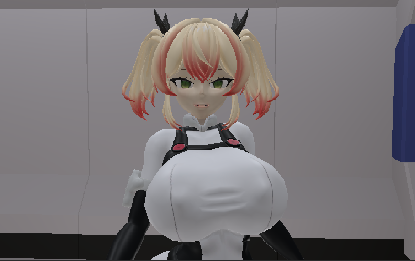
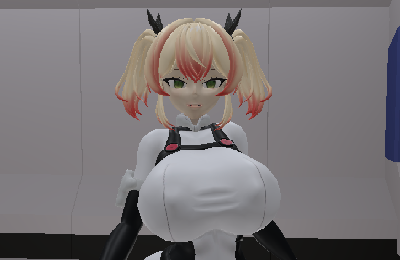
update site

diff --git a/src/styles/global.css b/src/styles/global.css
@@ -40,3 +40,23 @@ img {
   max-width: 100%;
   height: auto;
 }
+
+.site-header {
+  display: flex;
+  justify-content: space-between;
+  align-items: center;
+}
+
+.site-header h1 {
+  margin: 0;
+}
+
+.site-header nav a {
+  color: #666;
+  text-decoration: none;
+  font-size: 0.9rem;
+}
+
+.site-header nav a:hover {
+  text-decoration: underline;
+}

diff --git a/src/content/blog/2026-07-02-01bodymodelling.md b/src/content/blog/2026-07-02-01bodymodelling.md
@@ -1,0 +1,106 @@
+---
+title: "身体のモデリング"
+date: 2026-07-02
+tags:
+  - Blender
+  - 作業記録
+---
+
+頭部のモデリングの時と同じ講座を参考にした。見ながら一緒に作業するだけでほぼ完成する。
+
+
+- YouTube: 夏森轄（なつもり かつ）さん【Blender】人体モデリング講座　～キャラクターモデリング上達への道～
+https://www.youtube.com/watch?v=MprHxcYyo6g
+
+完成したのがこんな感じ。  
+いわゆるTポーズではなくAスタンスと呼ばれる腕を少し下げたポーズで作っているが、これは腕を大きく動かしたときに各部位の変形がAスタンスの方が少なそうだと思ったため。  
+今回はアダルトゲームの作成を目指しているため、縛られたポーズなど手足を無理に曲げた形になる可能性があると考えて崩れてほしくない肩側の形を広く作りたかった。  
+実際にTポーズとAスタンスの違いにこういう効果があるかは不明。  
+
+![はじめての身体モデリング](/images/2026-07-02-01bodymodelling_001.png)  
+![身体前下絵](/images/2026-07-02-01bodymodelling_002.png)
+![身体横下絵](/images/2026-07-02-01bodymodelling_003.png)
+
+完全に棒立ちの下絵は用意しなかったが、大体の頭身や身体のバランスがわかるように正面と横の画像は生成して重ねて作業した。  
+顔のモデリングのところにも書いたが、ここで真正面のY軸方向から見たときに少し胸が窮屈になるように作るべきだった。  
+この体型だと胸はかなり前に突き出しているパーツなのでイラストでは遠近法込みでこのシルエットに見えているはずだが、Blenderで視点をY軸に合わせて真正面表示にした時は遠近法が適用されなくなる。（斜め視点のときはBlenderも透視投影のはず）  
+
+![投影](/images/2026-07-02-01bodymodelling_010.png)
+
+この図だと左の体型で透視投影（青線）だとおっぱいは肩より大きく見えているが、平行投影（赤線）だと肩より小さく見える。  
+これを平行投影の状態で参考画像に合わせて肩より大きく見えるようになぞったら右の体型ができてしまう、ということが（カメラがこんなに近くないためほんの少しの差だが）起きているような気がする。  
+現実では隠れるはずの胸の側面が少し見えているのが作図として正確なはずだったが製作中は気づけなかった。  
+こういう細かい修正点はいくらでも出てくると思うので、その度に修正するのではなくゲーム部分がひと段落してから修正する予定。  
+
+・シルエットと服の着脱について  
+肉や肌の凹凸は服を着ると結構変わるが、今回は用途を考えると服を脱がせる可能性が高いため一度全裸の形状で作った後、服用に変形していくことにした。  
+こういう服の着脱などが可能なモデルが一般的にどう作られているのかちょっと調べてもよくわからなかったのでこの辺は他の情報源があるならあまり参考にしない方がいいかも知れない。  
+もうとりあえず形にして早く動かしてみたいという気持ちがはやっていて、身体や服装周りは「なんとなくできればいいや」の精神で独自のやり方で突っ走っている。  
+
+・手のモデリング  
+- YouTube: 夏森轄（なつもり かつ）さん【Blender】手のモデリング講座　～手を生き生きとモデリングするコツ～
+https://www.youtube.com/watch?v=q86fVaSJMQQ
+
+参考にしたのは引き続きこちら。  
+後の作業も考えられた形状で超点数を低く抑えながらも爪まで簡単に作れる洗練された工程で、同じく一緒に作業するだけでアップにしても見劣りしないクオリティの手がモデリングできた。  
+
+![手](/images/2026-07-02-01bodymodelling_004.png)
+
+ちょっと全体が薄すぎたがまあよしということで完成品。  
+右利きなのに右手を作ってしまったことで自分の手と見比べながら作ったり、自分の手を画面に重ねて形状や比率を確認するときにとてつもなく作業がしづらかった。  
+一応利き手の方がポーズをイメージしやすいという理由があって右手を作り始めたのだが完全にミスだった、自分の利き手とは逆を作ろう。  
+
+個人差の域だが人間は男性の方が薬指が長くなりやすいことから人差し指と薬指の比率が性別で違う傾向があるので、自分と性別の違う手を作る時は意識してもいいかもしれない。  
+
+・足のモデリング  
+裸足の足がまったく描けない人間なので、足は作成せず靴を被せて誤魔化すことにした。  
+他の部位に比べて明らかに理解がなく上達もしないということは根本的に足に対してのフェチズムがないと思われるため、講座を見て作ってもいいものが作れない可能性が高い。  
+アダルトゲームとして美少女キャラのモデルはクオリティが高いに越したことはない、一人で作っている以上無理なものはあるので低クオリティの足を作るくらいなら隠してしまった方がいいと判断した。  
+
+![靴イメージ](/images/2026-07-02-01bodymodelling_005.png)
+![靴下絵](/images/2026-07-02-01bodymodelling_006.png)
+
+キャラクターイメージを固める際に生成した画像から気に入ったシルエットに近いものを見つけてきて参考にした。
+AI生成かつ靴をメインにした画像ではないためそのまま参考にすると形状が破綻していたりもするし、角度も適していなかったので真横から見たイメージも作成し下絵として使った。  
+下絵の作成は髪の毛でも行ったように、現在完成済みの身体のスクリーンショットを撮ってそこに重ねて描いた。  
+細かい装飾などは画像の方を参考にしつつ、シルエットや位置などは下絵に重ねて作った。    
+
+![靴完成](/images/2026-07-02-01bodymodelling_007.png)
+
+完成したのはこれ。  
+Blenderの操作にも慣れてきたため動画等を参考にせずに作ったが、これまで参考にしていた動画の作り方がいかに洗練されていたかを思い知ることになった。  
+なんとか形にはなったが、完成系をイメージできていない手順だったせいでパーツ間が上手く繋がらなかったり、やたらと細かく分割された部分ができてしまったりと苦戦した。  
+全体的なクオリティはかなり低いものの下絵を敷いたこともあってシルエットはそれっぽくなった。  
+ハイヒールの性的な魅力を担う要素はシルエットの比重が大きいと考えているためこれで及第点ということにしておく、色を塗ればある程度の粗は隠せると信じて完成に。  
+とは言えこんなクオリティで裸足を作った場合を考えたら、靴で誤魔化したのは間違いなくいい選択だったように思う。  
+上手く作れないことは分かっていたので、パーツ数が少なくてもそれっぽくなるようにつるっとしたデザインにしたのも成功だったかもしれない。  
+
+これを書いていて「水着とか着せられる機能を追加したら靴は履けなくないか...？」と気付いたが皮算用なのでまずはゲーム完成を目指す。
+
+・身体と手足、頭部の接続  
+頭や手足を身体と接続するときに致命的なミスをした。  
+モデリングの際に面を自動で細分化し滑らかにしてくれるモディファイアーとしてサブディビジョンサーフェスというのをかけているのだが、頭部がこのモディファイアーを適用してしまっていて超点数がすごいことになってしまっている。  
+
+![身体頂点](/images/2026-07-02-01bodymodelling_011.png)
+![頭部頂点](/images/2026-07-02-01bodymodelling_012.png)
+
+身体はまだモディファイアー適用前なので首の頂点は10個だが、頭部の頂点は適用前は8個だったのが32個になっておりもう戻せない。  
+首の頂点は肩甲骨を作ったときに点が増えてしまっただけで簡単に8個にできるので本体は8個の頂点同士を接続して最後にサブディビジョンサーフェスをかければいいだけだったのだが、はやく色のついた顔を見たくてUV展開の手順を勉強する際に頭部のモディファイアーを全て適用してしまった。  
+そのためこの時点では普通に接続できないし、そもそも超点数を合わせて接続しても身体にはサブディビジョンサーフェスがかかっているのでこれに頭をくっつけるとすでに滑らかになった顔に再びサブディビジョンサーフェスがかかって面がとんでもない数に分割されてしまう。  
+
+参考動画ではこの辺の接続作業がやりやすいように身体側と首や手首の頂点がいずれも8個で揃うようにしてくれているので、こんなミスをしていなければ接続は超簡単。  
+
+![手首接続](/images/2026-07-02-01bodymodelling_013.png)
+
+一番近い頂点同士をマージするだけでこの通り。  
+足首は靴に埋まるように突っ込んだだけで頂点の接続はしなかった、肌と滑らかに繋がる必要はないので多分これでいい。  
+結局、頭部は全身にサブディビジョンサーフェスを適用したあと32頂点同士をくっつけることにした。  
+この方法だと身体側ももう適用前に戻れないので修正が面倒だ。モディファイアーの適用はよっぽどの理由がないかぎりすべきではない。  
+
+![身体完成](/images/2026-07-02-01bodymodelling_014.png)
+
+完成した身体はこんな感じ。  
+今回はこの後これをベースに着衣状態のモデルを別で作成していくつもりなので、全裸モデルの細かい手直しはしない。  
+えっちなゲームにおいて裸モデルのクオリティは大事かもしれないが、早く服を着てくれないとゲーム作成が始められないため簡単でもいいので早く服を着てもらいたい。 
+
+首に切れ目があり繋がっていないように見えるが、前述の通り首を繋げるときにモディファイアーの適用が必要なので繋げるのは後回しにしている。

diff --git a/src/content/blog/2026-07-03-01costumemodelling.md b/src/content/blog/2026-07-03-01costumemodelling.md
@@ -1,0 +1,71 @@
+---
+title: "服のモデリング"
+date: 2026-07-03
+tags:
+  - Blender
+  - 作業記録
+---
+
+作成するゲームのテーマ選定についてはまた別でまとめるが、宇宙船を舞台にしたSF世界観にする予定のためキャラクターの衣装はセクシーな近未来的スーツにしたいと考えた。  
+
+![衣装イメージ](/images/2026-07-03-01costumemodelling_001.png) 
+
+・アイデア出し  
+こういうSF系のパイロット衣装やロボ娘のような蛍光系のカラーをふんだんに使った未来的なデザインについてはほとんど引き出しがなくアイデアがないため、いくつかの作品を参考にしたりStable Diffusionを使って資料を作り、それっぽくするために必要な要素について考えた。  
+
+![要素1](/images/2026-07-03-01costumemodelling_002.png)
+
+![要素2](/images/2026-07-03-01costumemodelling_003.png)
+
+![要素3](/images/2026-07-03-01costumemodelling_004.png)
+
+色々見た結果、とりあえず首から下を覆うぴっちりとした全身スーツに加えて  
+・腕や脚についたベルトやリングとボックス状の機器  
+・胸を強調し腰を細く見せるコルセット状の着色部とハイレグライン  
+・潜水服や宇宙服のヘルメットやパラシュートを彷彿とさせる首輪や肩のベルト  
+・なんか光ってる高度なパーツ  
+
+この辺りをつけておけばそれっぽいのができるのではないかと考え、これらのパーツを作成したキャラクターモデルに付け加えていくことにした。  
+
+アダルトゲームのゲームコンセプトとして綿密な設定よりも、とりあえずえっちならそれでいいじゃんというスタンスを優先すべきだと思うため「なんか光ってる宝石みたいなやつ」についてはちゃんとした設定を考える必要はないと思ったが、一応ふんわりとでもイメージをもっておいたほうがいいと考えてChatGPTと少し話した。  
+
+未知のエネルギー源の表現や宇宙空間における冷却を担う装置など理由をつけるならどういうものが考えられるか、見た人にどういうSF的印象を与えることが期待されたデザインなのか、といったあたりを考察したが実際どういう設定にするのか決めたりはしなかった。  
+ぶっちゃけ「エッチな服だなぁ」とだけ思ってもらえればいいのだが、だからと言ってこだわらなくてもいいわけではないと考えている。  
+なんとなく心の中でイメージを持っておいた方が表現に一貫性ができて、世界観に違和感を持たれにくいだろうという程度の考察だが割と大事なことだと思う。  
+
+・モデリング  
+全裸状態で作ったモデルに服を着せていく。  
+アップにしたときにもリッチに見えるモデルとしてはしっかり布と身体の境目をモデリングした方がクオリティは上がりそうだが技術力が足りていない状態では難しそうなので、薄いスーツに関してはモデリングをするというよりほとんどボディペイントとして作ることにした。  
+リングなどのパーツは髪や靴と同じく上から被せる形が良さそうだと考えた。  
+
+![要素3](/images/2026-07-03-01costumemodelling_005.png)
+
+大部分はボディペイントと境目をベルトなどの装飾で隠すことで作れそうだったが、乳房の間は布で形状が変わるので胸周りだけ少し面を張り替えていく。  
+同時に全裸の時と比べて布袋に吊られたような形状になるように整えた。  
+
+![要素3](/images/2026-07-03-01costumemodelling_006.png)
+
+太もものベルトについても別パーツで作るより身体を加工して作った方が作りやすそうだと思ったので、このパーツだけ身体から作った。  
+ほんとはもっといやらしさ全開な食い込みにしてもいいと思ったのだが技術が足りないのでこのくらいにしておく。  
+
+![要素3](/images/2026-07-03-01costumemodelling_007.png)
+
+色をつけるときにはみ出て形状とテクスチャが合わなくならないようにパーツの切れ目になる辺にはシームを入れてテクスチャが分かれるようにしておく。  
+
+![要素3](/images/2026-07-03-01costumemodelling_008.png)
+
+その他のパーツは別メッシュで作成した。  
+身体と比べて無機的でほとんどただの筒やただの箱と変わらないためそんなに手間はかけていない。  
+ここに限らず現状このキャラクターは前髪以外は完全に左右対称なのでミラーで半分しか作っていない。  
+
+![要素3](/images/2026-07-03-01costumemodelling_009.png)
+
+身体のモデリングは滑らかな形状にするため何も考えずすべてにサブディビジョンサーフェスをかけていたが、器物のモデリングでは一長一短な機能かもしれない。  
+辺のクリースを設定することでサブディビジョンサーフェスのかかり方を調節して角ばらせたりはできるのだがやり方が悪いのか表現できない形状があり、変に角の取れたローポリ感のある形状になってしまった部分がいくつかある。  
+部分的にサブディビジョンサーフェスを使ったり、そもそもサブディビジョンサーフェスを使わず手動で辺を分割して、滑らかにする部分を選んで作った方が良かったかもしれない。  
+しかしこだわり出したらキリがないので、ゲーム画面を見ていてクオリティを上げたくなってから修正に戻ってくることにする。  
+
+![要素3](/images/2026-07-03-01costumemodelling_010.png)
+
+見落としがなければ最低限のモデリングはこれで終了と思われる。  
+ついに念願のゲーム制作フェイズが見えてきた。

diff --git a/src/content/blog/2026-07-01-02headmodelling.md b/src/content/blog/2026-07-01-02headmodelling.md
@@ -2,7 +2,6 @@
 title: "キャラの顔モデリング"
 date: 2026-07-01
 tags:
-  - Astro
   - Blender
   - 作業記録
 ---

diff --git a/src/content/blog/2026-07-01-03hairmodelling.md b/src/content/blog/2026-07-01-03hairmodelling.md
@@ -2,7 +2,6 @@
 title: "髪の毛モデリング"
 date: 2026-07-01
 tags:
-  - Astro
   - Blender
   - 作業記録
 ---
